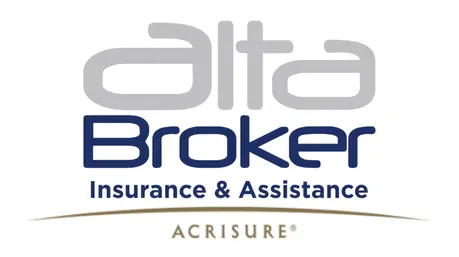
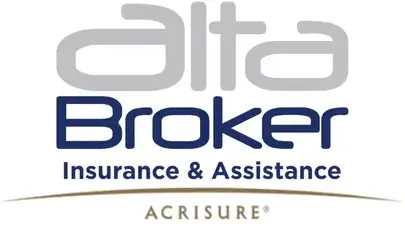
Aggiornamento dei file del sito

Changed region(s): [[0.0, 0.0, 0.9778, 0.9868]]

diff --git a/index.php b/index.php
@@ -1965,7 +1965,7 @@
                 
                 <div class="azienda-card">
                     <div class="azienda-card-content">
-                        <img src="/img/Logo ALTA BROKER.jpg" alt="Acrisure Italia" class="azienda-logo">
+                        <img src="/img/New Alta provvisorio.webp" alt="Acrisure Italia" class="azienda-logo">
                         <h3 class="azienda-nome">Alta Broker & Partners S.r.l.</h3>
                         <p class="azienda-desc">Broker specializzato nelle polizze retail adatto ad ogni vostra esigenza</p>
                         <div class="azienda-link-container">
